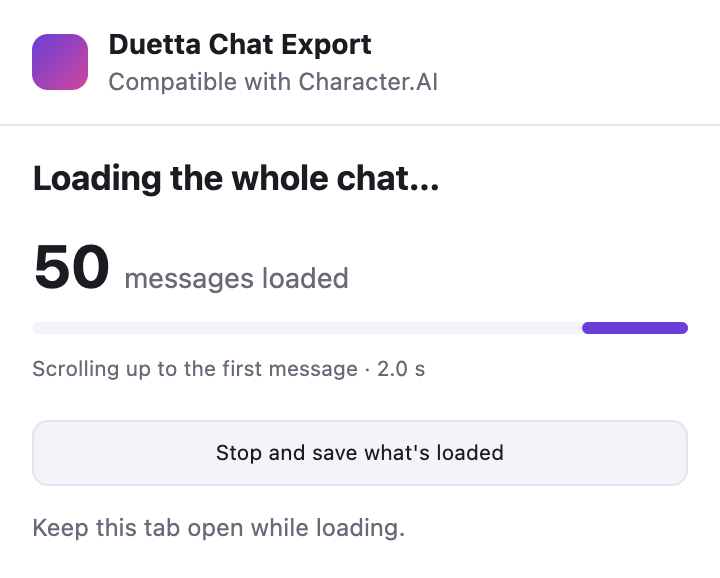
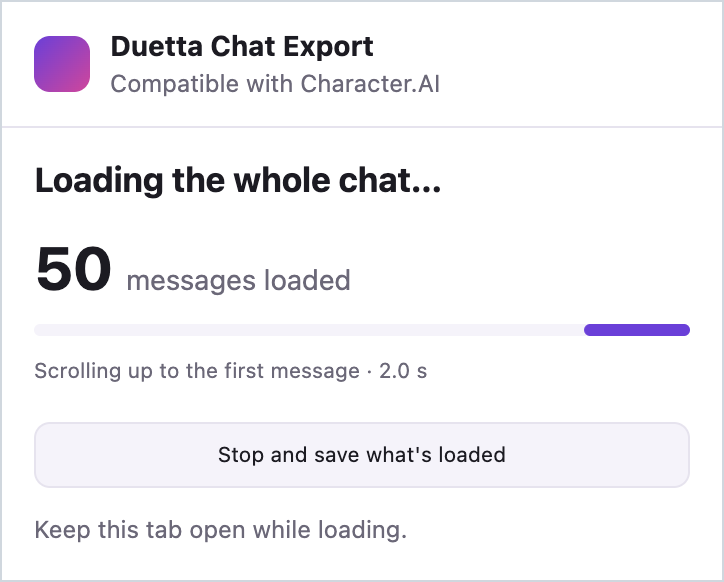
README: framed screenshots, shorter loading step
The popup is white like the page, so the screenshots get a thin border;
the loading step no longer repeats what its screenshot already says.

diff --git a/README.md b/README.md
@@ -33,23 +33,23 @@ Sign in to character.ai as usual. The extension works only with characters you c
 
 1. **Add the character card.** Open your character's **Edit** page, click the **D** icon and press **Add character card**. The extension saves what the form shows: name, tagline, description, greetings and definition.
 
-   <img src="docs/img/export-card.png" width="360" alt="Popup on the Edit page: Character card, Add character card">
+   <img src="docs/img/export-card.png" width="362" alt="Popup on the Edit page: Character card, Add character card">
 
 2. **Save the chat.** Open your chat with this character, click the **D** icon and press **Save whole chat**.
 
-   <img src="docs/img/export-chat.png" width="360" alt="Popup on the chat page: the character's name, Character card added, Save whole chat">
+   <img src="docs/img/export-chat.png" width="362" alt="Popup on the chat page: the character's name, Character card added, Save whole chat">
 
-   The extension scrolls up to the first message while the site loads older ones. Keep the tab open: it usually takes a few seconds, longer for a long chat. You can press **Stop and save what's loaded** at any time.
+   Keep the tab open while it loads: usually a few seconds, longer for a long chat. You can press **Stop and save what's loaded** at any time.
 
-   <img src="docs/img/export-loading.png" width="360" alt="Popup while loading: 50 messages loaded, Stop and save what's loaded">
+   <img src="docs/img/export-loading.png" width="362" alt="Popup while loading: 50 messages loaded, Stop and save what's loaded">
 
 3. **Check and save.** The preview shows how many messages there are, the first and the last one, and whether the chat is complete. Tick **This is a character I created, and this is my chat**, check the other two boxes and press **Save file**. You can also add your own picture to the file (optional).
 
-   <img src="docs/img/export-review.png" width="360" alt="Preview: Complete chat, 11 messages, the first and the last message, three ticked boxes, Save file">
+   <img src="docs/img/export-review.png" width="362" alt="Preview: Complete chat, 11 messages, the first and the last message, three ticked boxes, Save file">
 
 4. **Done.** The file `<character name> chat <date>.json` is in your Downloads folder. The extension forgets the chat as soon as the file is saved.
 
-   <img src="docs/img/export-saved.png" width="360" alt="Popup: Saved, the browser is saving the file to your downloads">
+   <img src="docs/img/export-saved.png" width="362" alt="Popup: Saved, the browser is saving the file to your downloads">
 
 The card can be added before or after saving the chat; the popup reminds you if it is missing. If the popup says it can't read a message or can't tell who wrote it, the site has changed and the extension needs an update: please [open an issue](https://github.com/Duetta-ai/character-ai-chat-export/issues).
 
